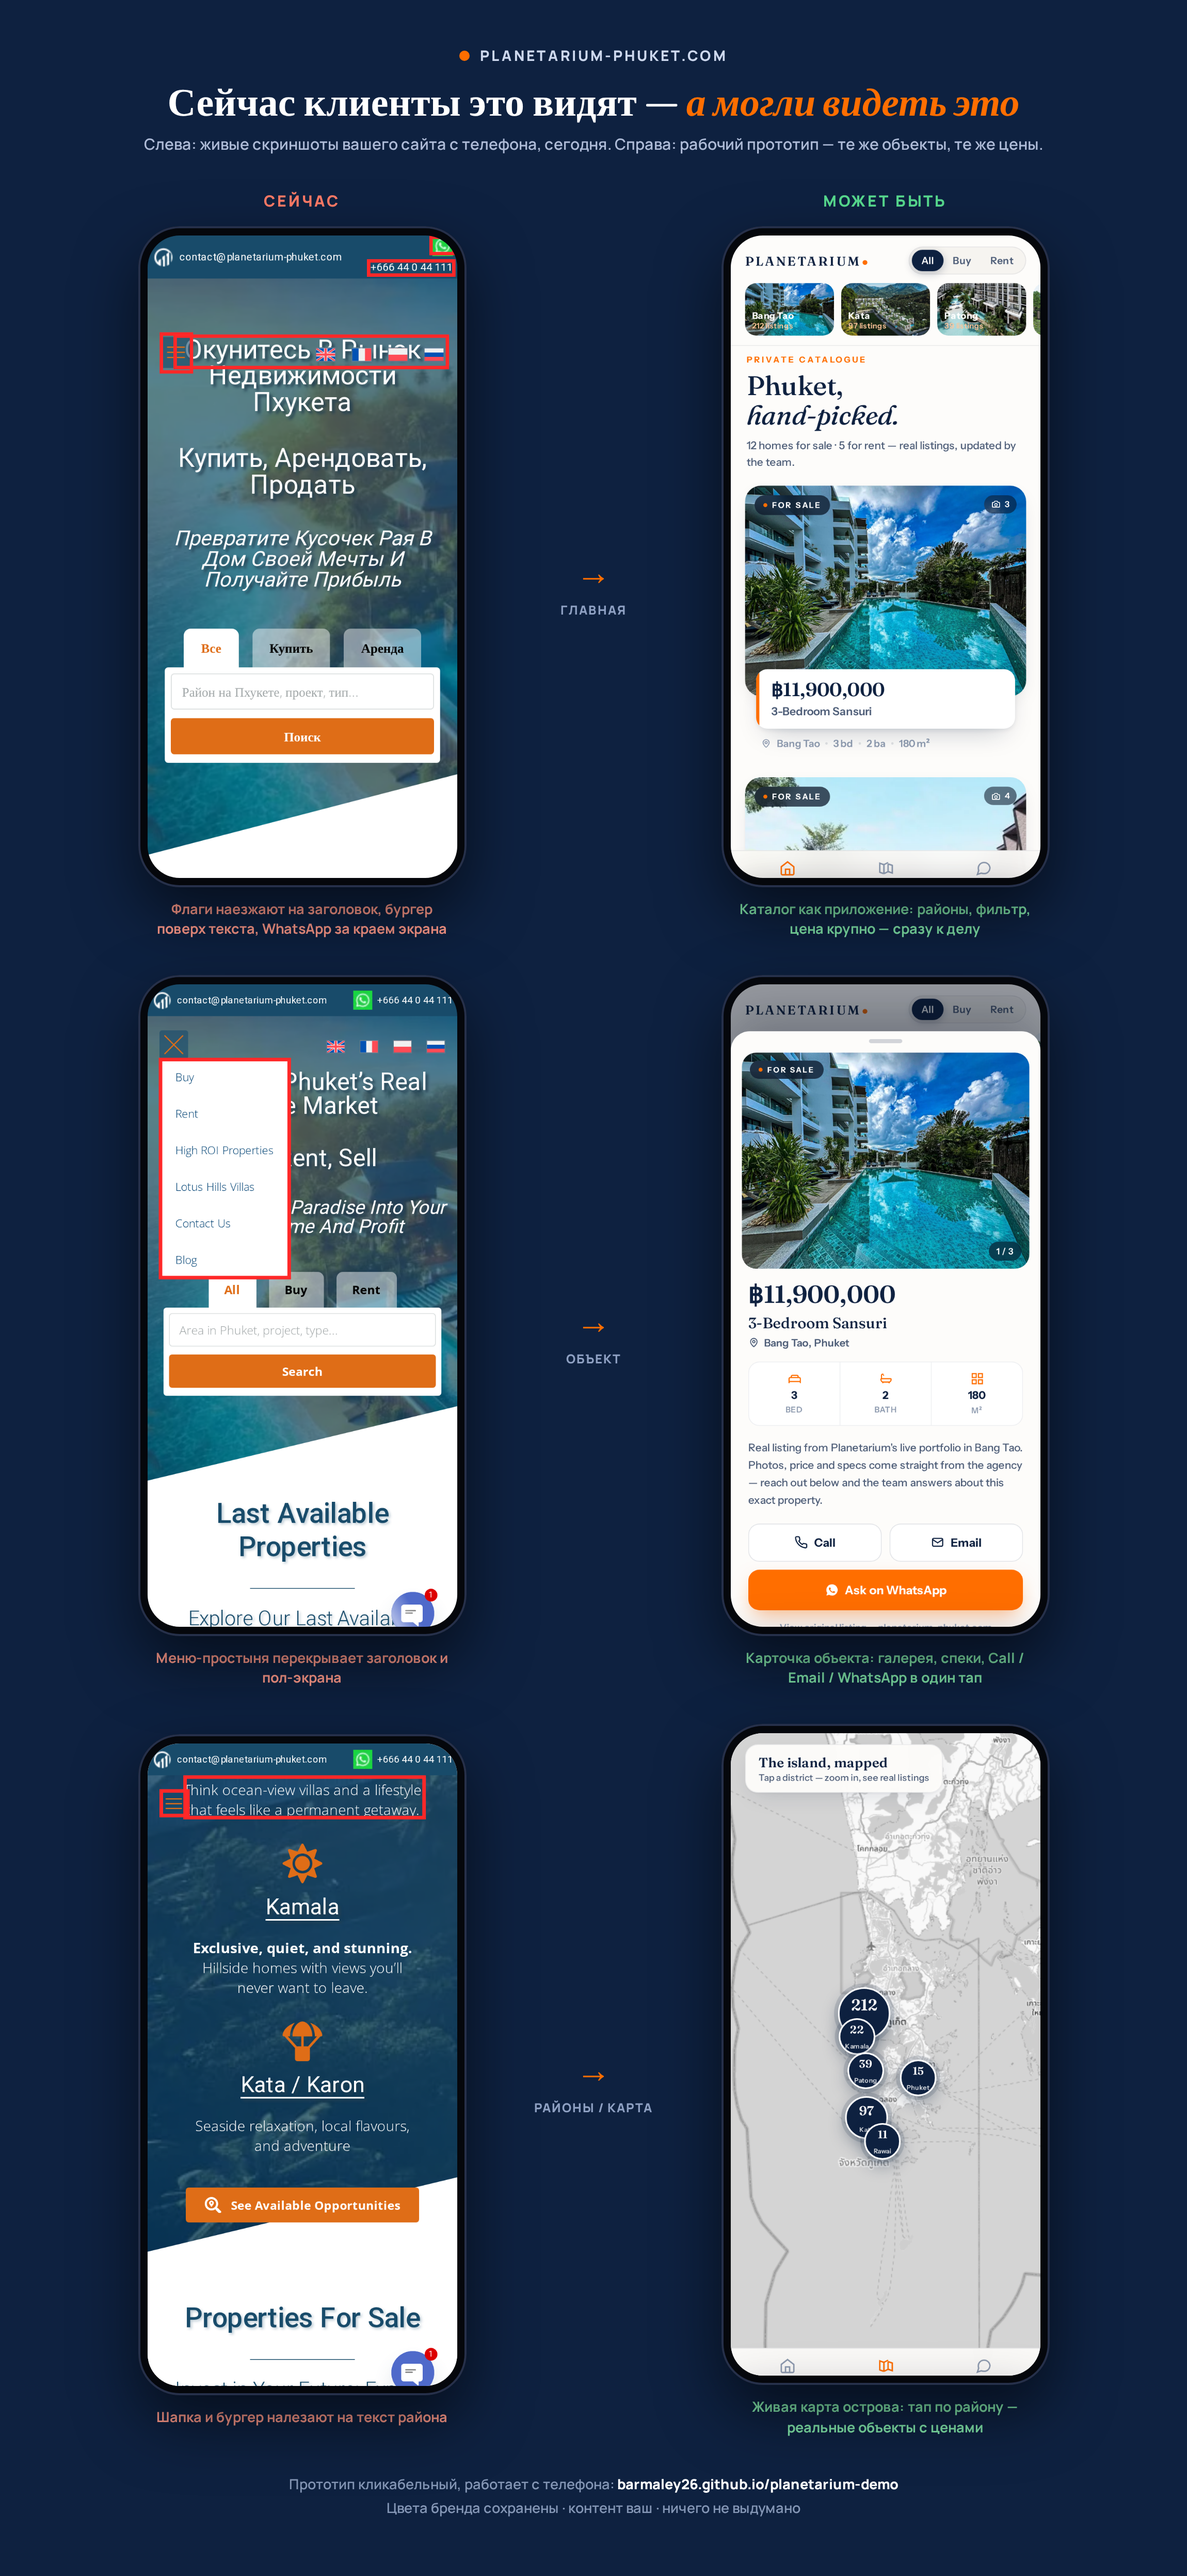
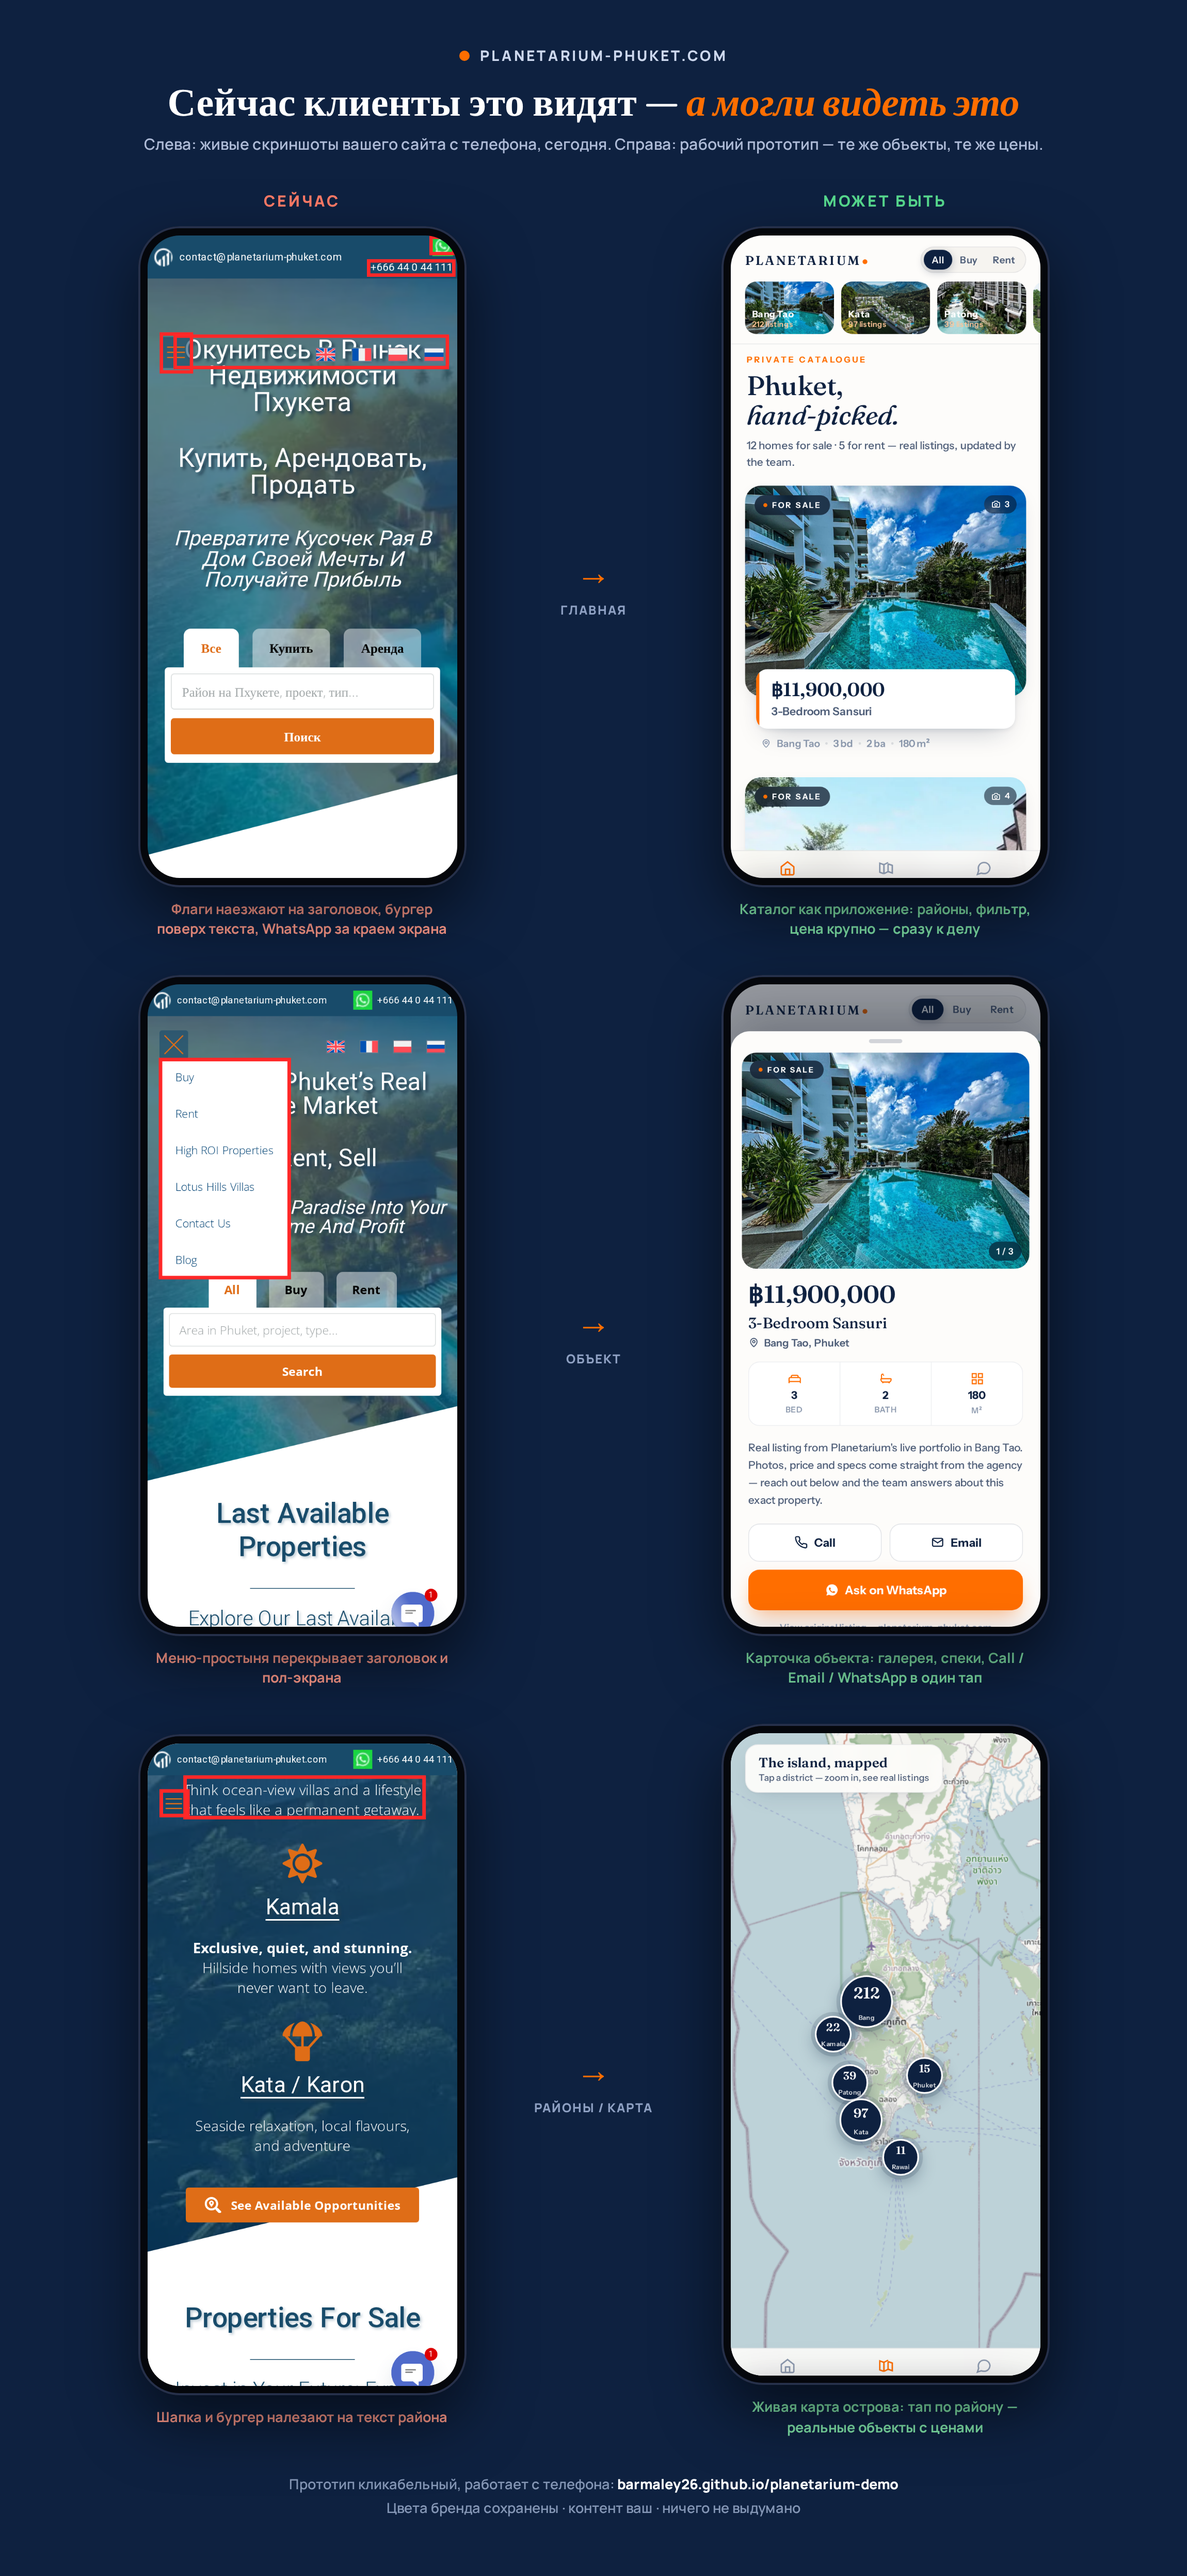
polish: spread map clusters, tighter segment, livelier map

Changed region(s): [[0.6791, 0.6526, 0.8026, 0.8701], [0.6174, 0.0932, 0.8643, 0.1554], [0.8335, 0.7458, 0.8952, 0.8079]]

diff --git a/index.html b/index.html
@@ -37,8 +37,8 @@ button{font-family:var(--ui);cursor:pointer}
 .logo small{font-size:8.5px;font-weight:600;letter-spacing:2.2px;color:var(--ink-mute);
   text-transform:uppercase;margin-left:8px}
 .seg{display:flex;background:var(--paper2);border:1px solid var(--hair2);border-radius:22px;padding:3px}
-.seg button{border:0;background:none;color:var(--ink-soft);font-weight:600;font-size:12.5px;
-  padding:6px 12px;border-radius:18px;transition:.18s;letter-spacing:.2px}
+.seg button{border:0;background:none;color:var(--ink-soft);font-weight:600;font-size:12px;
+  padding:5px 10px;border-radius:18px;transition:.18s;letter-spacing:.2px}
 .seg button.on{background:var(--ink);color:#fff;box-shadow:0 3px 10px rgba(14,33,64,.25)}
 /* district tiles */
 .dists{display:flex;gap:9px;overflow-x:auto;scrollbar-width:none;margin:0 -18px;padding:0 18px}
@@ -102,7 +102,7 @@ button{font-family:var(--ui);cursor:pointer}
 /* ---------- map view ---------- */
 #mapv .mwrap{position:absolute;inset:0}
 #map{position:absolute;inset:0;z-index:1;background:#EAEDF0}
-#map .leaflet-tile-pane{filter:grayscale(1) brightness(1.06) contrast(.96)}
+#map .leaflet-tile-pane{filter:grayscale(.5) contrast(1.04)}
 .map-title{position:absolute;top:14px;left:18px;right:18px;z-index:10;pointer-events:none;display:flex;justify-content:flex-start}
 .map-chip{background:rgba(253,252,250,.94);backdrop-filter:blur(12px);border:1px solid var(--hair2);
   border-radius:16px;padding:11px 16px;box-shadow:var(--shadow-card)}
@@ -313,7 +313,7 @@ button{font-family:var(--ui);cursor:pointer}
 <script src="https://unpkg.com/leaflet@1.9.4/dist/leaflet.js"></script>
 <script>
 const DATA = [{"id": 1, "title": "3-Bedroom Sansuri", "price": "11,900,000฿", "location": "Bang Tao", "beds": "3", "baths": "2", "area": "180", "status": "buy", "url": "https://planetarium-phuket.com/property/3-bedroom-sansuri-resale/", "images": ["p01_0.webp", "p01_1.webp", "p01_2.webp"], "mapDistrict": "Bang Tao"}, {"id": 2, "title": "Beachfront Villa", "price": "18,887,000฿", "location": "Rawai", "beds": "3", "baths": "3", "area": "314", "status": "buy", "url": "https://planetarium-phuket.com/property/exclusive-village-beachfront-in-rawai/", "images": ["p02_0.webp", "p02_1.webp", "p02_2.webp", "p02_3.webp"], "mapDistrict": "Rawai"}, {"id": 3, "title": "Panorama Kata Oceanview", "price": "11,044,000฿", "location": "Kata", "beds": "2", "baths": "2", "area": "138.05", "status": "buy", "url": "https://planetarium-phuket.com/property/panorama-kata-oceanview/", "images": ["p03_0.webp", "p03_1.webp", "p03_2.webp", "p03_3.webp"], "mapDistrict": "Kata"}, {"id": 4, "title": "Condo near Karon Beach", "price": "8,460,000฿", "location": "Karon", "beds": "1", "baths": "1", "area": "47", "status": "buy", "url": "https://planetarium-phuket.com/property/condominium-near-the-karon-beach/", "images": ["p04_0.webp", "p04_1.webp", "p04_2.webp"], "mapDistrict": "Kata"}, {"id": 6, "title": "1-Bedroom Ozone Resale", "price": "5,100,000฿", "location": "Bang Tao", "beds": "1", "baths": "1", "area": "42", "status": "buy", "url": "https://planetarium-phuket.com/property/1-bedroom-ozone-resale/", "images": ["p06_0.webp", "p06_1.webp", "p06_2.webp"], "mapDistrict": "Bang Tao"}, {"id": 7, "title": "Condo at Naithon", "price": "5,959,350฿", "location": "Naithon", "beds": "1", "baths": "1", "area": "36.9", "status": "buy", "url": "https://planetarium-phuket.com/property/condominium-at-naithon/", "images": ["p07_0.webp", "p07_1.webp", "p07_2.webp"], "mapDistrict": "Bang Tao"}, {"id": 8, "title": "4BR Villa by Laguna", "price": "27,900,000฿", "location": "Bang Tao", "beds": "4", "baths": "5", "area": "329", "status": "buy", "url": "https://planetarium-phuket.com/property/4-bedroom-villas-next-door-to-laguna-phuket/", "images": ["p08_0.webp", "p08_1.webp", "p08_2.webp"], "mapDistrict": "Bang Tao"}, {"id": 9, "title": "2BR Laguna Village", "price": "16,500,000฿", "location": "Bang Tao", "beds": "2", "baths": "2", "area": "222", "status": "buy", "url": "https://planetarium-phuket.com/property/2-bedrooms-laguna-village-resale/", "images": ["p09_0.webp", "p09_1.webp", "p09_2.webp"], "mapDistrict": "Bang Tao"}, {"id": 10, "title": "New Residence · South Phuket", "price": "6,426,000฿", "location": "Rawai", "beds": "1", "baths": "1", "area": "42", "status": "buy", "url": "https://planetarium-phuket.com/property/a-new-residential-complex-in-the-south-of-phuket/", "images": ["p10_0.webp", "p10_1.webp", "p10_2.webp"], "mapDistrict": "Rawai"}, {"id": 11, "title": "Resort-Style Condo, Bang Tao", "price": "4,768,000฿", "location": "Bang Tao", "beds": "1", "baths": "1", "area": "32", "status": "buy", "url": "https://planetarium-phuket.com/property/resort-style-condo-at-bangtao/", "images": ["p11_0.webp", "p11_1.webp", "p11_2.webp", "p11_3.webp"], "mapDistrict": "Bang Tao"}, {"id": 12, "title": "Premium Apartments · Bang Tao", "price": "5,500,000฿", "location": "Bang Tao", "beds": "1", "baths": "1", "area": "38.48", "status": "buy", "url": "https://planetarium-phuket.com/property/premium-apartment-complex-in-bangtao-area/", "images": ["p12_0.webp", "p12_1.webp", "p12_2.webp", "p12_3.webp"], "mapDistrict": "Bang Tao"}, {"id": 13, "title": "Residence near Kamala Beach", "price": "9,817,275฿", "location": "Kamala", "beds": "1", "baths": "1", "area": "46", "status": "buy", "url": "https://planetarium-phuket.com/property/mont-azure-lake-side/", "images": ["p13_0.webp", "p13_1.webp", "p13_2.webp"], "mapDistrict": "Kamala"}, {"id": 20, "title": "Room · Anantara Mai Khao 5★", "price": "120,000฿/month/longrent", "location": "Mai Khao", "beds": "4", "baths": "5", "area": "222", "status": "rent", "url": "https://planetarium-phuket.com/property/room-in-anantara-mai-khao-5/", "images": ["r20_0.webp", "r20_1.webp", "r20_2.webp", "r20_3.webp"], "mapDistrict": "Bang Tao"}, {"id": 21, "title": "1BR VIP Mercury, Rawai", "price": "2,000฿/perday", "location": "Rawai", "beds": "1", "baths": "1", "area": "36.8", "status": "rent", "url": "https://planetarium-phuket.com/property/1-bedroom-rawai-vip-mercury-for-rent/", "images": ["r21_0.webp", "r21_1.webp", "r21_2.webp"], "mapDistrict": "Rawai"}, {"id": 22, "title": "1BR Laguna Skypark", "price": "42,000฿/permonth", "location": "Bang Tao", "beds": "1", "baths": "1", "area": "39", "status": "rent", "url": "https://planetarium-phuket.com/property/1-bedroom-laguna-skypark-for-rent/", "images": ["r22_0.webp", "r22_1.webp", "r22_2.webp"], "mapDistrict": "Bang Tao"}, {"id": 23, "title": "3BR Villa Sunpao", "price": "220,000฿/permonth", "location": "Chalong", "beds": "3", "baths": "3", "area": "257", "status": "rent", "url": "https://planetarium-phuket.com/property/3-bedrooms-villa-sunpao-for-rent/", "images": ["r23_0.webp", "r23_1.webp", "r23_2.webp"], "mapDistrict": "Rawai"}, {"id": 24, "title": "Studio · Chalong", "price": "25,000฿/permonth", "location": "Chalong", "beds": "1", "baths": "1", "area": "29.8", "status": "rent", "url": "https://planetarium-phuket.com/property/room-space-for-rent-chalong/", "images": ["r24_0.webp", "r24_1.webp", "r24_2.webp"], "mapDistrict": "Rawai"}];
-const DISTRICTS = [{"name": "Bang Tao", "count": 212, "coord": [7.994, 98.293], "img": "p01_0.webp", "link": "https://planetarium-phuket.com/search-results/?keyword=Bang%20Tao"}, {"name": "Kata", "count": 97, "coord": [7.816, 98.297], "img": "p03_0.webp", "link": "https://planetarium-phuket.com/search-results/?keyword=Kata"}, {"name": "Patong", "count": 39, "coord": [7.896, 98.296], "img": "p11_0.webp", "link": "https://planetarium-phuket.com/search-results/?keyword=Patong"}, {"name": "Kamala", "count": 22, "coord": [7.955, 98.281], "img": "p13_0.webp", "link": "https://planetarium-phuket.com/search-results/?keyword=Kamala"}, {"name": "Phuket Town", "count": 15, "coord": [7.884, 98.387], "img": "p04_0.webp", "link": "https://planetarium-phuket.com/search-results/?keyword=Phuket%20Town"}, {"name": "Rawai", "count": 11, "coord": [7.775, 98.325], "img": "p02_0.webp", "link": "https://planetarium-phuket.com/search-results/?keyword=Rawai"}];
+const DISTRICTS = [{"name": "Bang Tao", "count": 212, "coord": [8.015, 98.297], "img": "p01_0.webp", "link": "https://planetarium-phuket.com/search-results/?keyword=Bang%20Tao"}, {"name": "Kata", "count": 97, "coord": [7.812, 98.288], "img": "p03_0.webp", "link": "https://planetarium-phuket.com/search-results/?keyword=Kata"}, {"name": "Patong", "count": 39, "coord": [7.876, 98.268], "img": "p11_0.webp", "link": "https://planetarium-phuket.com/search-results/?keyword=Patong"}, {"name": "Kamala", "count": 22, "coord": [7.958, 98.24], "img": "p13_0.webp", "link": "https://planetarium-phuket.com/search-results/?keyword=Kamala"}, {"name": "Phuket Town", "count": 15, "coord": [7.888, 98.398], "img": "p04_0.webp", "link": "https://planetarium-phuket.com/search-results/?keyword=Phuket%20Town"}, {"name": "Rawai", "count": 11, "coord": [7.748, 98.356], "img": "p02_0.webp", "link": "https://planetarium-phuket.com/search-results/?keyword=Rawai"}];
 const PHONE="+66644044111", EMAIL="contact@planetarium-phuket.com";
 const waLink=t=>`https://api.whatsapp.com/send?phone=${PHONE}&text=`+encodeURIComponent(t);
 const waGeneric=waLink("Здравствуйте! Пишу из мобильного каталога Planetarium — интересует недвижимость на Пхукете.");
